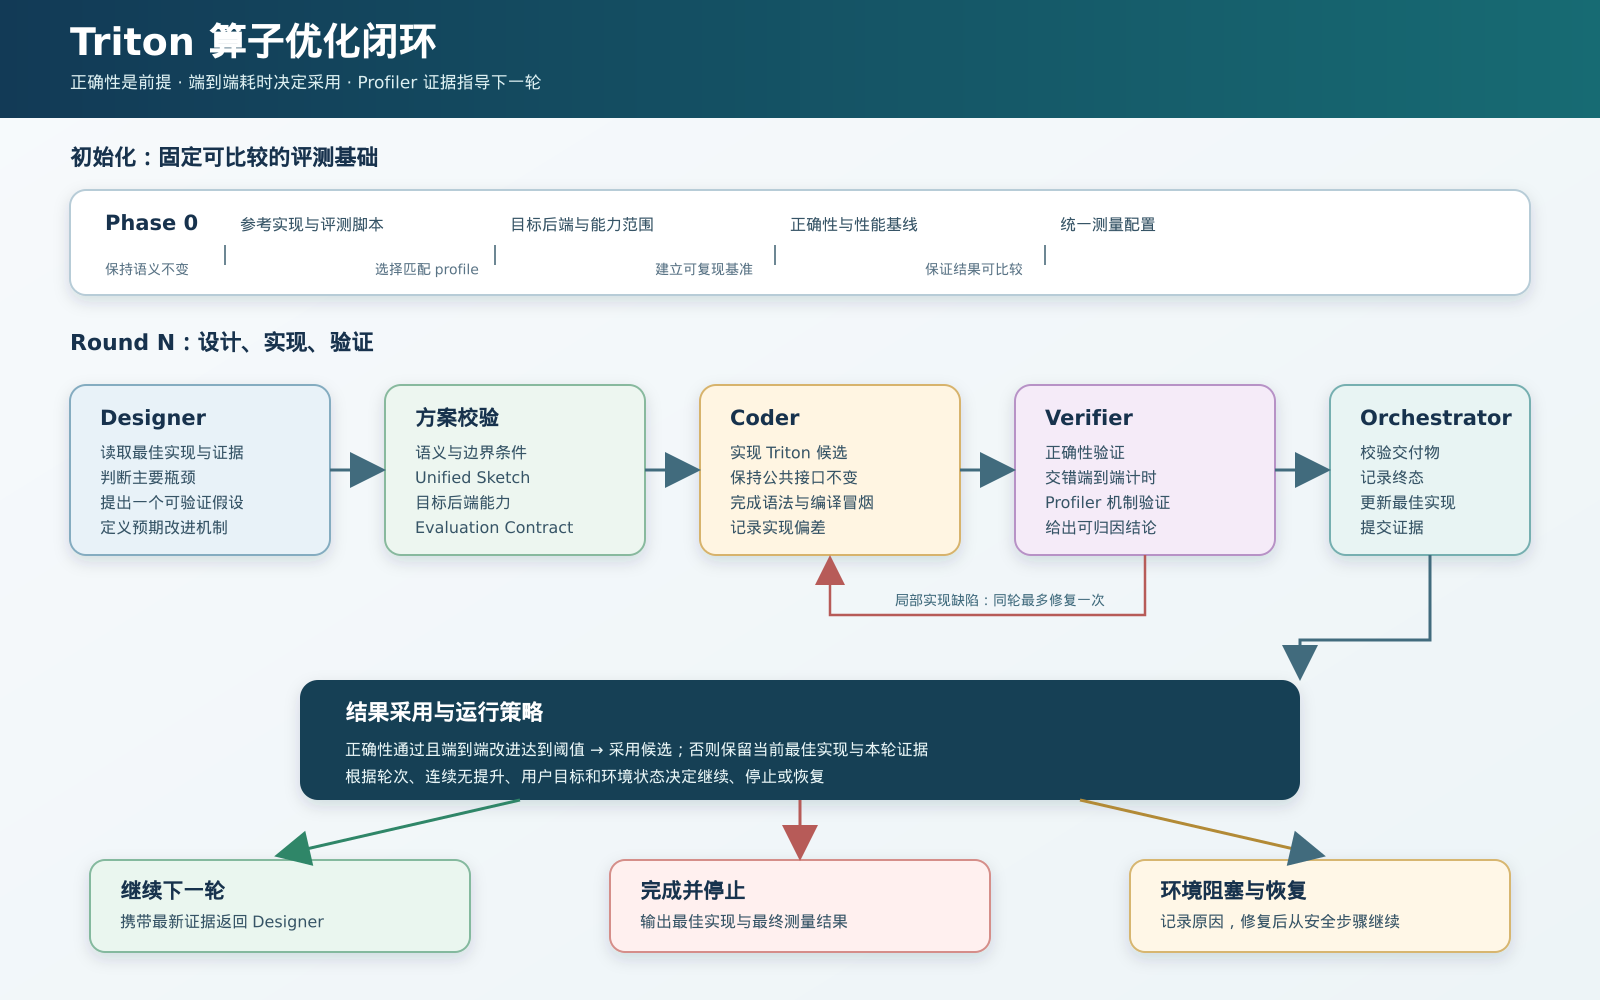
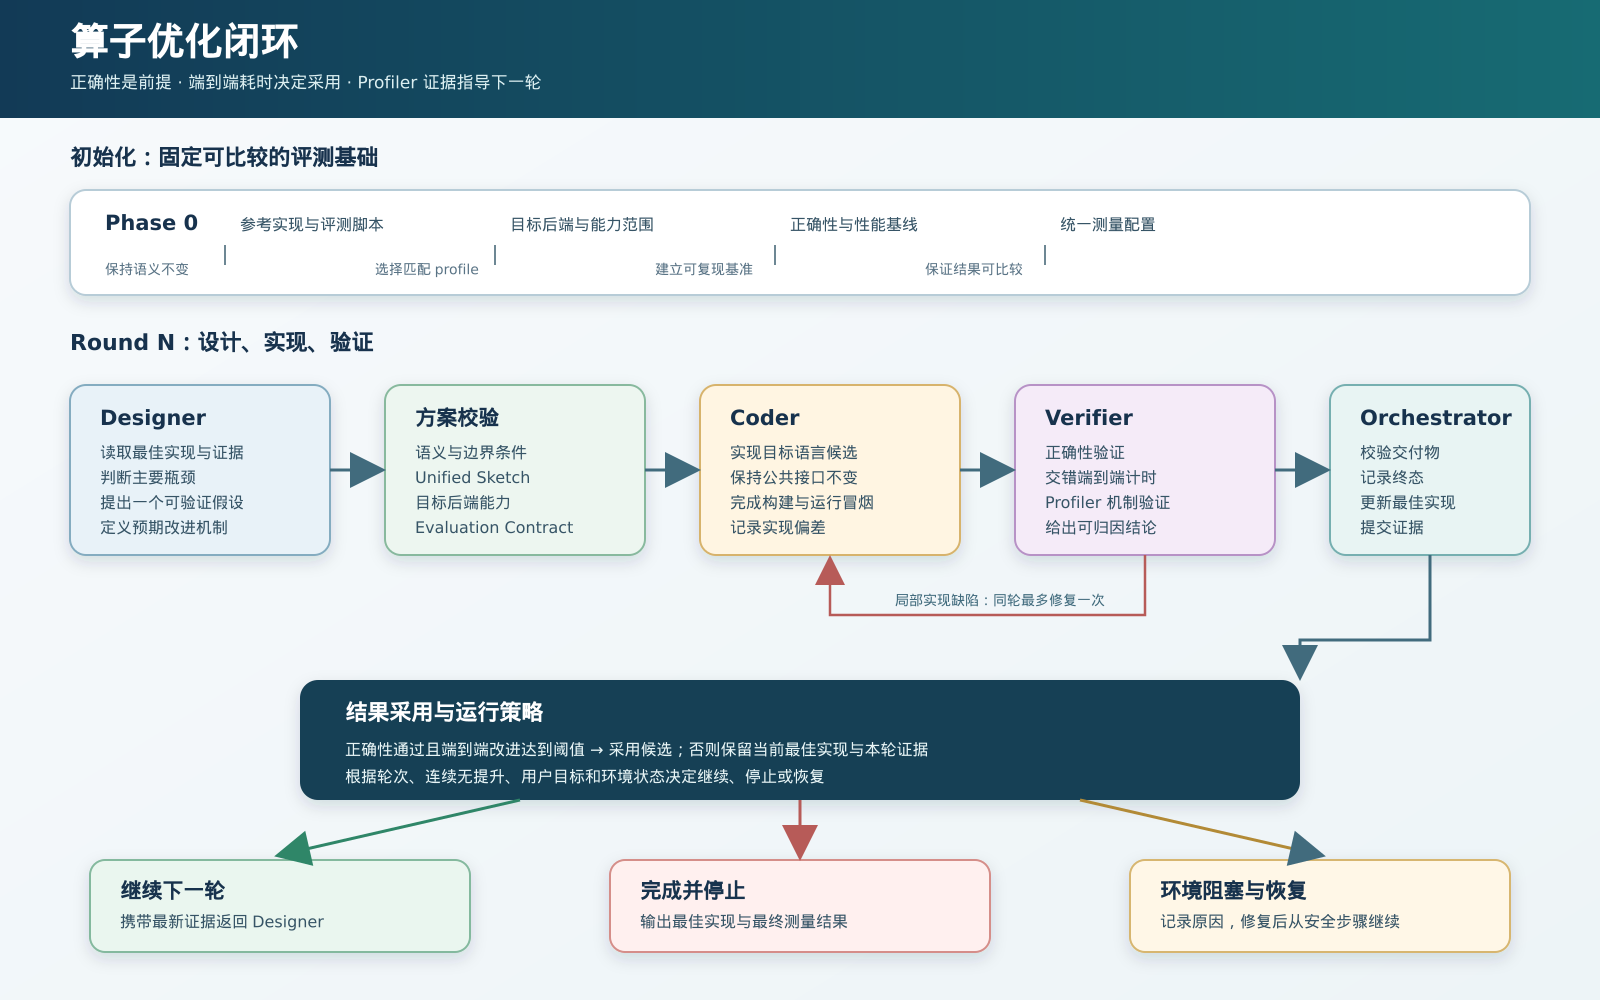
docs(skills): generalize loop and plan track2 support

Changed region(s): [[0.0312, 0.0, 0.2812, 0.062], [0.4688, 0.496, 0.5312, 0.527], [0.4688, 0.434, 0.5312, 0.465]]

diff --git a/skills/track2-clike-roadmap.md b/skills/track2-clike-roadmap.md
@@ -1,0 +1,197 @@
+# 赛道二 C-like Skill 扩展路线
+
+## 结论
+
+赛道二不需要复制一套新的 Designer / Coder / Verifier / Orchestrator 状态机。建议继续使用 `kernel-opt-loop` 作为语言无关的优化闭环，在其下增加 **implementation profile + build adapter + runner adapter + profiler adapter**。
+
+当前 v1 契约仍是赛道一实现：Python `ModelNew` 候选、单个 `.py` 文件、`auto_bench.py` 加载，以及 Triton target profile。赛道二尚不能直接启动正式优化轮次。
+
+## 当前赛题形态
+
+| Task | 算子 | 目标输入 | 主要实现难点 |
+|---|---|---|---|
+| 1 | `sparse_attn` | `q [8,2600,64,128]` bf16、`kv [8,32,128]` bf16、top-k=16 | 非连续 gather、online softmax、attention sink 仅进入分母、无效索引 `-1` |
+| 2 | `index_topk` | `x [8,2600,1024]` bf16、`qr [8,2600,256]` bf16、top-k=128 | 参数化 GEMM、RoPE、压缩 KV、因果 mask、分数聚合和 top-k 排序语义 |
+| 3 | `sinkhorn_normalize` | `x [1,1024,4,4]` fp32、repeat=10 | 大量独立小矩阵、重复行列归一化、启动开销与片上常驻 |
+
+三个 `base.py` 已位于 `kernels/track2-clike/`。仓库根 `auto_bench.py` 只接受 `.py` 文件，并要求候选暴露 `ModelNew/get_init_inputs/get_inputs`，因此它不能直接编译或加载 C-like 多文件候选。
+
+## v1 契约中需要解除的 Triton 假设
+
+### 1. 候选不再是单文件
+
+当前 canonical 指针是 `last_accepted_kernel`，Coder 从一个 Python 文件复制下一轮候选。C-like 候选通常至少包括：
+
+- 设备 kernel 源文件，例如 `.mlu` / `.cpp` / `.cc`；
+- host launcher 或 Python binding；
+- 头文件；
+- `CMakeLists.txt` 或确定性的构建脚本；
+- 可选静态库、共享库或可执行程序；
+- 运行配置和编译日志。
+
+需要把 canonical 单文件指针升级为 `last_accepted_candidate_manifest`。manifest 记录源文件集合、每个文件的 SHA-256、构建命令、编译产物、ABI 和运行入口。
+
+### 2. 本地 gate 不再是 `ast.parse`
+
+当前 Coder gate 是 Python AST、真实 harness loader 和一次 warm-up。C-like gate 应由 implementation profile 定义：
+
+1. source manifest 完整性；
+2. 编译器和 SDK identity 匹配；
+3. configure / compile / link 成功；
+4. ABI 符号或可执行入口存在；
+5. 一次目标设备 smoke execution；
+6. 编译日志和产物哈希落盘。
+
+编译缓存可以复用，但 cache key 必须包含所有源文件哈希、编译器版本、SDK、目标架构、编译参数和链接依赖。
+
+### 3. Harness 需要 runner adapter
+
+不要把 C-like 逻辑硬塞进 `auto_bench.py`。建议定义统一 runner 接口：
+
+```text
+prepare(reference, candidate, runtime_fingerprint)
+build(candidate_manifest) -> build_artifact
+load_or_launch(build_artifact, inputs, state)
+correctness(reference_output, candidate_output, tolerances)
+time(build_artifact, warmup, repeat) -> ordered_samples
+profile(build_artifact, scope, iterations) -> normalized_evidence
+cleanup()
+```
+
+v1 runner 是 `python_modelnew`，继续调用现有 `auto_bench.py`。赛道二新增 `native_clike` runner，通过官方 ABI、共享库 binding 或官方可执行 harness 调用候选。
+
+正式实现 runner 前必须先确认官方赛道二提交和评测接口。若官方仍要求 Python 包装层，该包装层只能负责参数传递和调用原生 kernel，不能回退到 PyTorch 计算。
+
+### 4. Target profile 需要拆成 implementation profile
+
+当前 `triton_mlu`、`triton_gcu` 等 profile 同时混合了语言、后端和工具链。赛道二建议显式记录：
+
+- `language`: `triton` / `bangc` / 其他官方 C-like 语言；
+- `backend`: `mlu` / 其他目标设备；
+- `compiler`: 编译器路径、版本和 target arch；
+- `sdk`: SDK 路径和版本；
+- `build_adapter`: 构建方式；
+- `runner_adapter`: 候选调用方式；
+- `profiler_adapter`: profiler 和 device timer；
+- `submission_abi`: 输入输出、参数、stream、workspace 和错误处理约定；
+- `capabilities`: memory hierarchy、DMA、barrier、vector/matrix primitive、core/grid mapping。
+
+建议首个 profile 为 `bangc_mlu`，但只有在目标机器上完成编译、执行、数值和 profiler probe 后才能标记为 complete。
+
+### 5. Unified Sketch 需要覆盖原生 kernel 信息
+
+D/O/C/H 四段结构可以继续使用，不需要另造一种设计语言，但 C-like profile 应扩展可表达内容：
+
+- **D — Declarations**：global/NRAM/SRAM/WRAM 等地址空间、alignment、stride、workspace、host/device 参数；
+- **O — Operations**：DMA copy、async copy、barrier、vector/matrix intrinsic、原子操作和允许的库调用；
+- **C — Control**：cluster/core/task 映射、流水阶段、同步点、尾块和错误路径；
+- **H — Target Hints**：目标架构、core 类型、union mode、编译参数、片上容量和已验证的 intrinsic 限制。
+
+Host Plan 对原生候选通常应为必填，至少描述 allocation、workspace、stream、lifetime、cache、并发和同步边界。
+
+### 6. Verifier 需要原生构建和设备证据
+
+赛道二 Verifier 除现有正确性和端到端计时外，还应验证：
+
+- 编译不计入 benchmark 时间，除非官方规则明确包含；
+- reference 与 candidate 使用完全相同的输入、参数状态和 stream；
+- 原生调用后检查设备错误并同步；
+- 输出 shape、dtype、数值容差、NaN/Inf 和特殊索引语义；
+- workspace 越界、错误的 alias、生命周期或并发假设；
+- device timer 与官方 wall-time 口径的关系；
+- profiler 数据按每次 forward 归一化，且 reference/candidate 分 scope；
+- 编译失败、设备丢失、SDK 不匹配和 profiler 缺失仍分类为环境问题，而不是性能失败。
+
+对 BANG C，可优先调查 CNRT notifier、厂商 profiler 或官方 harness 提供的设备计时；在 probe 证明前，不得把 host launcher 时间冒充 kernel 时间。
+
+## 三个算子的建议接入顺序
+
+### 第一阶段：`sinkhorn_normalize`
+
+最适合验证新 skill 基础设施：
+
+- 无模型参数；
+- 单输入单输出；
+- shape 固定且 kernel 较小；
+- 容易建立 CPU/PyTorch reference 与原生输出对比；
+- 能验证编译、ABI、runner、计时、profiler 和多文件 artifact 流程。
+
+完成标准不是追求最终加速比，而是完整跑通 Phase 0、一个 candidate round、Verifier 报告和 canonical candidate manifest。
+
+### 第二阶段：`sparse_attn`
+
+用于验证：
+
+- 大规模 bf16 输入传递；
+- gather 和 `-1` 无效索引；
+- online softmax 数值稳定性；
+- attention sink 只进入分母的特殊语义；
+- 多级 tiling、片上容量和 DMA 流水。
+
+### 第三阶段：`index_topk`
+
+最后接入，因为它同时包含参数状态、多个线性层、RoPE、因果 mask、压缩 KV、归约和 top-k。需要先确定：
+
+- 参数如何从参考 `state_dict` 传入原生实现；
+- 是否允许调用厂商 GEMM/top-k 库；
+- top-k 相等值排序和无效位置的官方判定；
+- complex RoPE 在 ABI 中的表示；
+- 一个候选能否由多个 kernel 和 host launcher 组成。
+
+## 必须先从官方规则确认的事项
+
+在创建第一个 C-like campaign 前，需要确认并记录：
+
+1. 目标芯片和指定 C-like 语言；
+2. 提交目录和必需文件；
+3. 官方编译命令、编译器、SDK 和允许的链接库；
+4. 候选 ABI，以及是否允许 Python binding；
+5. 输入、模型参数、workspace 和 stream 的传递方式；
+6. 编译时间是否计入性能；
+7. warmup、repeat、同步和 wall-time 口径；
+8. 正确性容差、特殊值和 top-k tie 规则；
+9. 是否允许多 kernel、多阶段和厂商库调用；
+10. profiler 工具和可提交的性能证据；
+11. 动态 shape、并发、内存上限和超时规则；
+12. 防作弊规则及 PyTorch fallback 限制。
+
+这些值属于官方/用户拥有的契约，skill 不应从赛道一或某个候选实现中推断。
+
+## 建议目录结构
+
+```text
+skills/kernel-opt-loop/
+├── implementation_profiles/
+│   ├── triton_<backend>.md
+│   └── bangc_mlu.md
+├── runners/
+│   ├── python_modelnew.md
+│   └── native_clike.md
+├── build_adapters/
+│   └── bangc_cmake.md
+├── profiler_adapters/
+│   └── bangc_mlu.md
+└── scripts/
+    ├── validate_candidate_manifest.py
+    ├── build_native_candidate.py
+    └── run_native_compare.py
+```
+
+为保持兼容，现有 `prompts/coder_targets/triton_*.md` 可以先继续使用；等 C-like runner 完成后再迁移到 `implementation_profiles/`，避免一次性破坏赛道一 campaign。
+
+## 实施里程碑
+
+| Milestone | 产出 | 完成条件 |
+|---|---|---|
+| M0 规则确认 | Track 2 evaluation contract | 上述 12 个官方问题均有明确答案 |
+| M1 Candidate Manifest v2 | 多文件 source/build/ABI schema + validator | 缺文件、哈希漂移和 ABI 缺失可确定性失败 |
+| M2 Native Runner | build/load/correctness/timing 接口 | 可比较一个原生 add/sinkhorn probe 与 PyTorch reference |
+| M3 `bangc_mlu` Profile | 编译器、SDK、memory/intrinsic/profiler 能力表 | 匹配机器上 probe 编译、执行、数值检查通过 |
+| M4 Sinkhorn Pilot | 第一条完整赛道二 round | Phase 0、Coder、Verifier、采用策略和恢复均通过 |
+| M5 Profiler Normalization | 原生 device evidence | 可按 forward 归一化并区分 reference/candidate scope |
+| M6 Sparse Attention | 第二个算子 | gather、sink softmax 和大输入路径通过 |
+| M7 Index Top-k | 第三个算子 | 参数、RoPE、mask、top-k 与多 kernel 契约通过 |
+
+## 推荐的下一步
+
+先完成 M0，不要直接写正式 BANG C 优化代码。官方 ABI 和构建规则确认后，从 `sinkhorn_normalize` 建一个最小原生 runner probe；只有该 probe 能稳定完成编译、正确性、计时和 profiler，才把 `bangc_mlu` 标记为 complete 并允许 `kernel-opt-loop` 自动启动赛道二轮次。

diff --git a/kernels/track2-clike/README.md b/kernels/track2-clike/README.md
@@ -13,4 +13,5 @@
 - base.py 均为纯 torch + `device="cuda"` 字符串，harness 自动搬运/重写设备。
 - task2 模板的模块级 `args = ModelArgs(...)` 会被 harness AST 过滤器剥离，
   已移入 `get_inputs` / `get_init_inputs` 内部；`.cuda()` 统一改为 `device="cuda"`。
-- 优化实现（C-like / Triton）由对应 skill 流程生成，后端目录在建 campaign 时创建。
+- 三个 `base.py` 已就绪；C-like 正式优化还需要原生构建、runner、ABI 和 profiler adapter。
+- Skill 扩展方案见 [`../../skills/track2-clike-roadmap.md`](../../skills/track2-clike-roadmap.md)。

diff --git a/docs/competition/README.md b/docs/competition/README.md
@@ -7,7 +7,7 @@ KernelSwift 算子创新大赛（上海人工智能实验室 + 沐曦 + DeepLink
 | 赛道 | 文档 | 状态 |
 |---|---|---|
 | 赛道一：Triton 算子优化 | [track1-triton.md](track1-triton.md) | 进行中 |
-| 赛道二：Clike 算子优化 | [track2-clike.md](track2-clike.md) | 预留（规则待从飞书确认） |
+| 赛道二：Clike 算子优化 | [track2-clike.md](track2-clike.md) | 3 个 base 已就绪；官方 ABI 与原生 runner 待确认 |
 | 赛道三：AI4S / 新型模型架构 | （未整理） | 未开始 |
 
 ## 外部参考

diff --git a/kernels/README.md b/kernels/README.md
@@ -9,7 +9,7 @@ kernels/
 │   │   ├── base.py    # 算子级共享参考（一份，设备无关）
 │   │   └── <后端>/    # 各后端优化目录（skill Phase 0 生成）
 │   └── README.md      # 算子 × 后端 进度矩阵
-└── track2-clike/      # 赛道二：C-like（预留）
+└── track2-clike/      # 赛道二：C-like（3 个 base 已就绪，原生 runner 待建）
 ```
 
 ## base.py：算子级共享参考（不按后端重复）
